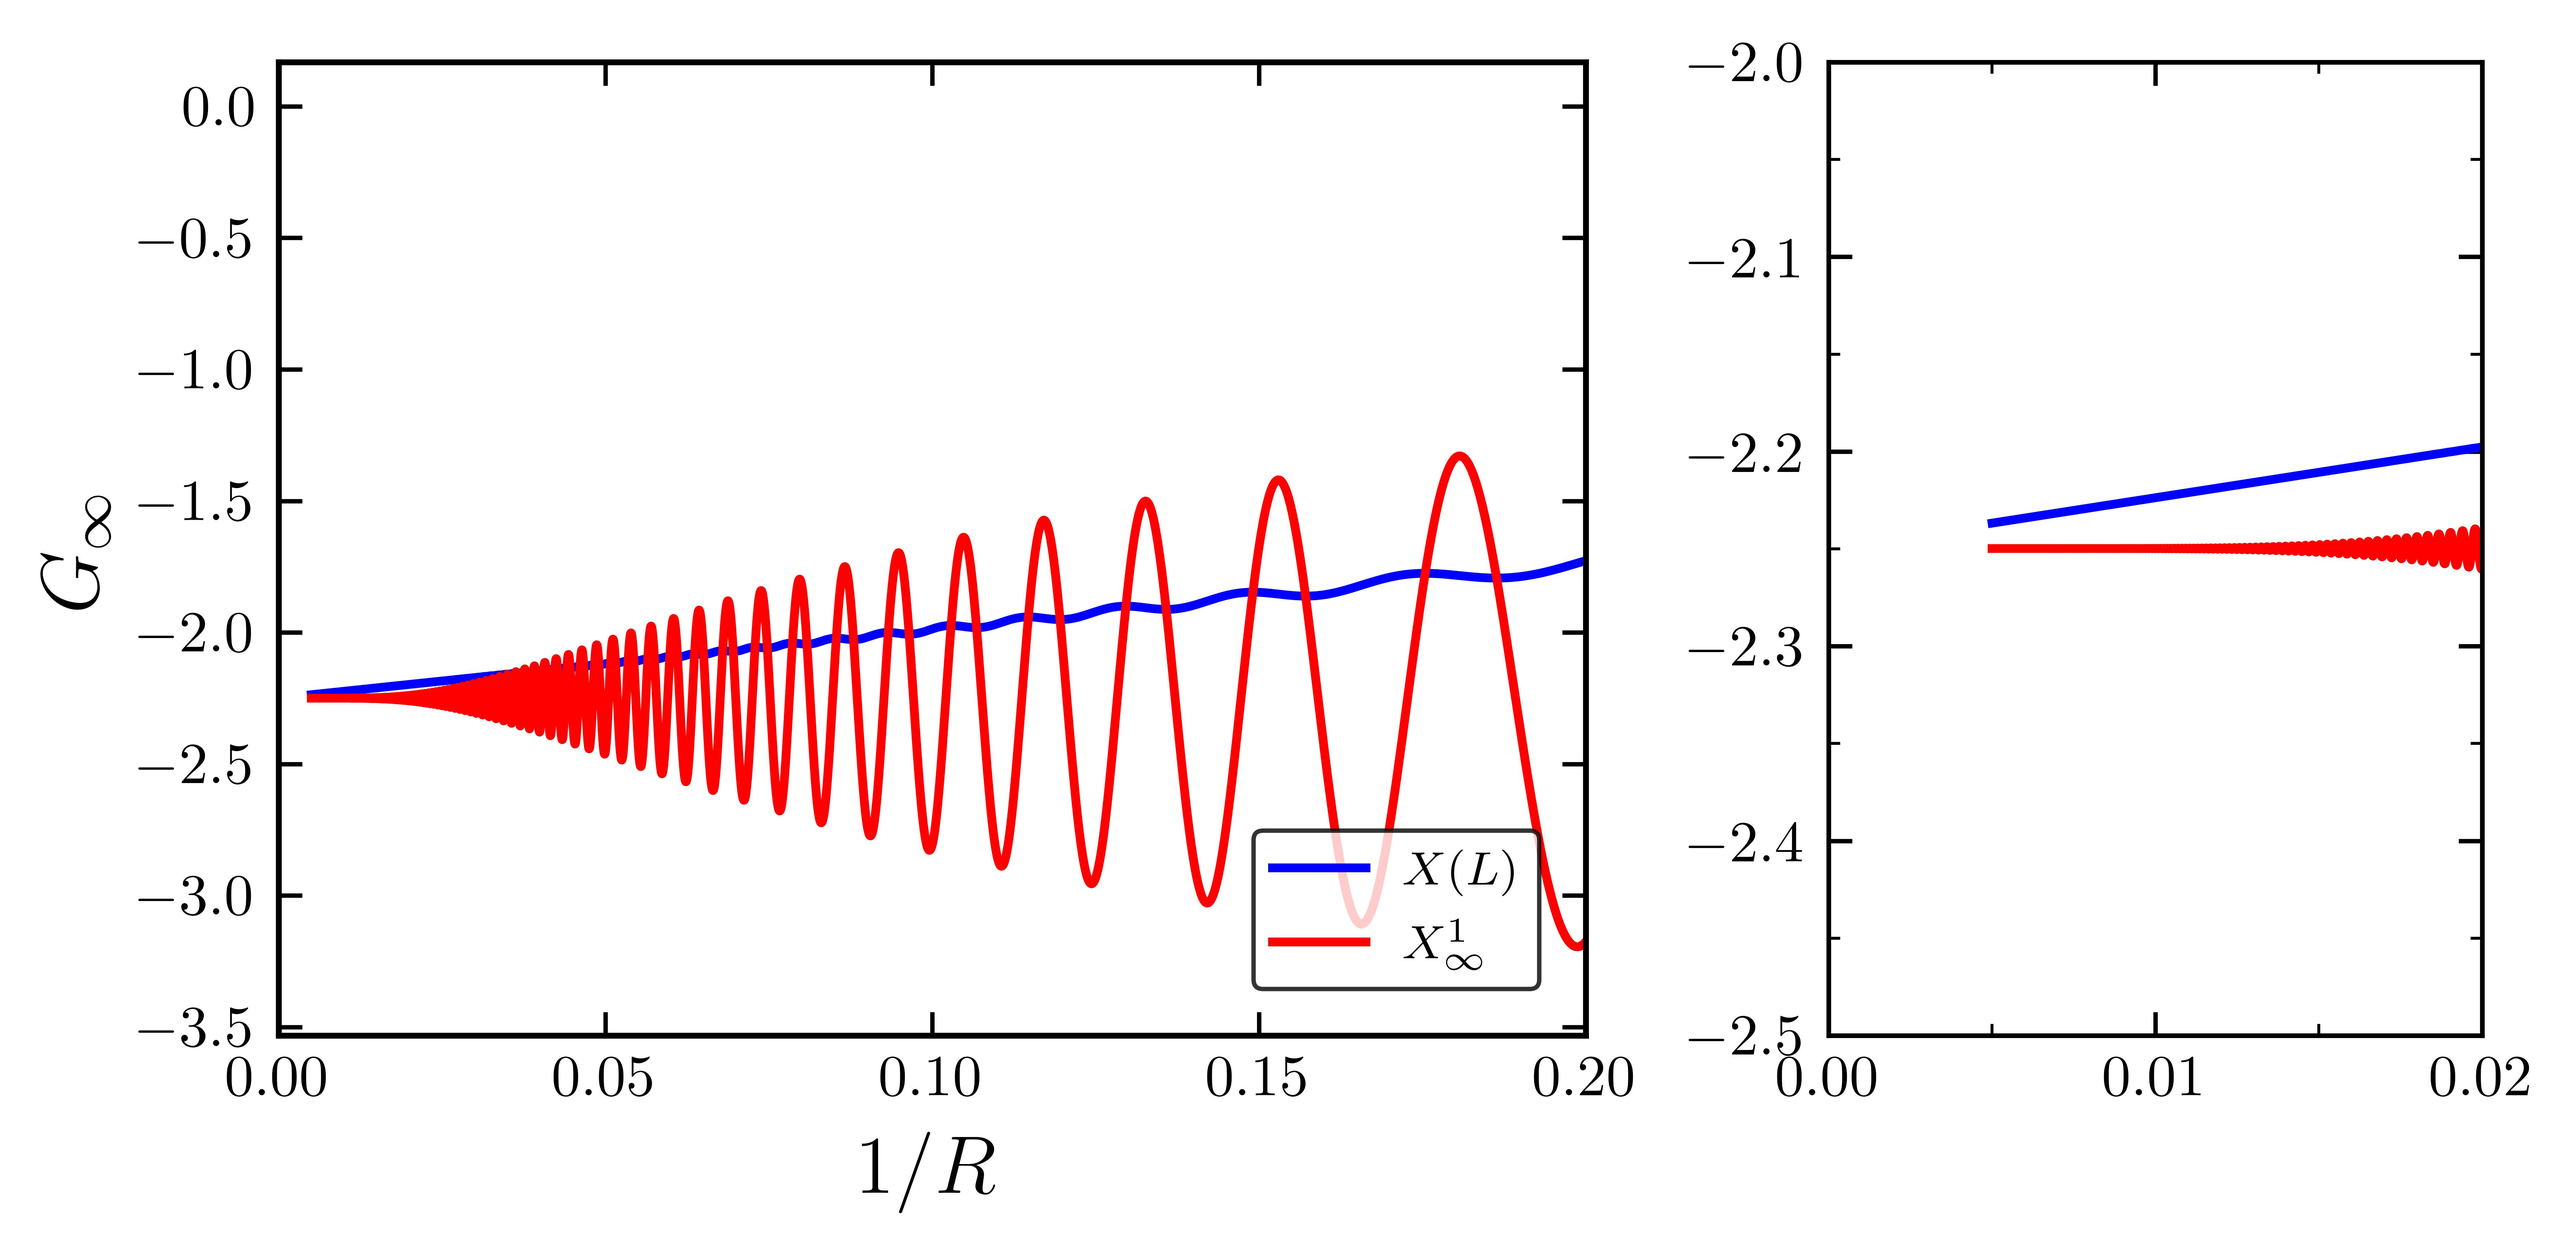
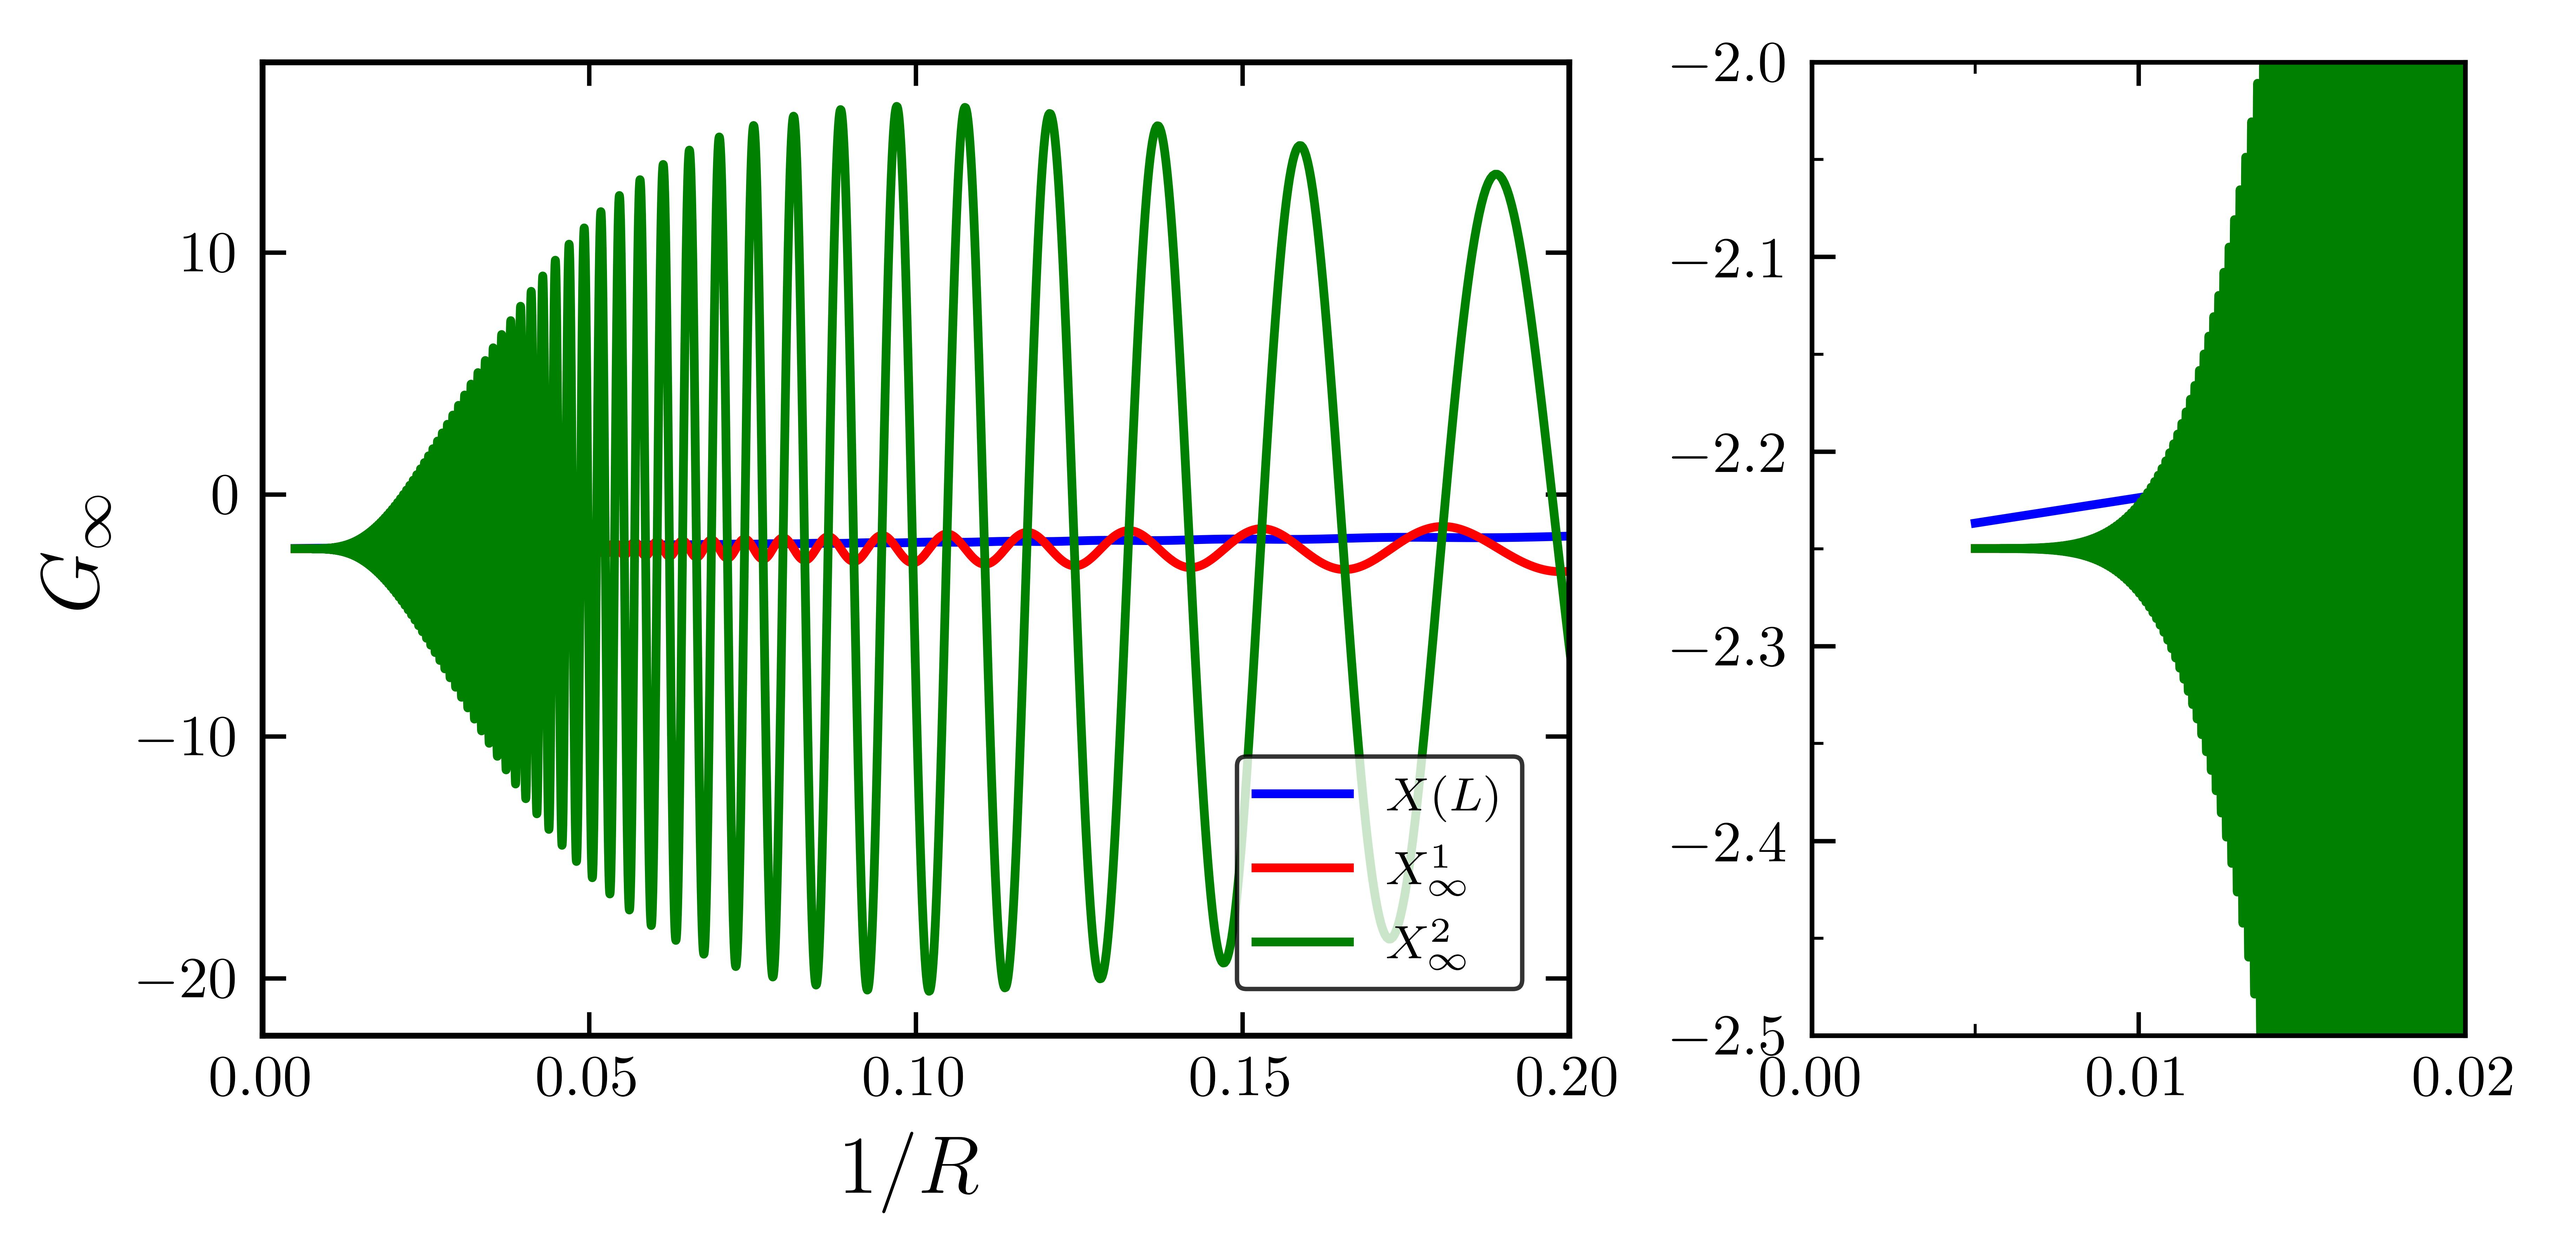
WF potential - plots

diff --git a/WF/plot_WF_lambda.py b/WF/plot_WF_lambda.py
@@ -1,0 +1,123 @@
+#!/usr/bin/env python
+
+########################### import the packages ############################
+import os
+import numpy as np
+import scienceplots
+import matplotlib
+matplotlib.use('Agg')
+import matplotlib.pyplot as plt
+import matplotlib.colors as mcolors
+from matplotlib.ticker import ScalarFormatter, MultipleLocator
+import matplotlib.cm as cm
+
+markers = ['o', 's', '^', 'D', 'h', '*', 'X' , "8"]
+plot_size = (4, 3)
+graphic_font = 'Arial'
+math_font = 'dejavuserif'  #['dejavusans', 'dejavuserif', 'cm', 'stix', 'stixsans', 'custom']
+spine_width = 1
+markersize=2
+capsize=3
+markeredgewidth=0.75
+legend_linewidth = 1
+linewidth =1                
+tick_width=0.75
+tick_length=4
+minor_tick_width= 0.5
+minor_tick_length=2
+tick_labelsize=10
+legend_fontsize=8
+legend_boxwidth=0.75
+label_fontsize=14
+borderaxespad=0.6
+alpha = 1
+CO2_color = '#e41a1c'
+MIX_color = '#008000'
+rgba_CO2_color = mcolors.to_rgba(CO2_color)
+rgba_MIX_color = mcolors.to_rgba(MIX_color)
+CO2_face_color = (rgba_CO2_color[0], rgba_CO2_color[1], rgba_CO2_color[2], 0.6)
+MIX_face_color = (rgba_MIX_color[0], rgba_MIX_color[1], rgba_MIX_color[2], 0.6)
+resolution_value = 1200
+break_threshold = 10 # for NIST data
+plt.rcParams['font.serif'] = graphic_font
+plt.rcParams['mathtext.fontset'] = math_font
+
+def wf_potential(r, rc, alpha, Lambda):
+    f1 = r**2 + alpha * (1 - Lambda)
+    f2 = (1 / f1) - 1
+    f3 = rc**2 + alpha * (1 - Lambda)
+    f4 = ((f3 / f1) - 1)**2
+    return Lambda * f2 * f4
+
+epsilon = 1.0
+sigma = 1.0
+rc = 2
+alpha = 1
+Lambda = np.arange(0,1.001,0.01)
+
+cmap = cm.get_cmap("viridis")
+norm = mcolors.Normalize(vmin=min(Lambda), vmax=max(Lambda))  #
+
+with plt.style.context([ 'ieee']):
+    plt.rcParams['font.family'] = graphic_font
+    plt.rcParams['mathtext.fontset'] = math_font
+    plt.rcParams['text.usetex'] = True
+    fig, ax = plt.subplots(figsize=plot_size)
+    ax.spines['top'].set_linewidth(spine_width)    
+    ax.spines['bottom'].set_linewidth(spine_width) 
+    ax.spines['left'].set_linewidth(spine_width)   
+    ax.spines['right'].set_linewidth(spine_width) 
+
+    for i, lambda_val in enumerate(Lambda):
+        
+        r = np.linspace(0, 2, 5000)
+        V_WF = wf_potential(r, rc, alpha, lambda_val)
+        if np.any(np.abs(V_WF) > 1e17):  # Set a reasonable threshold
+            print(f"Large values detected for lambda={lambda_val}")
+        color = cmap(norm(lambda_val))
+        
+        plt.plot(r, V_WF, label=rf"{i}", color= color, linestyle='solid', linewidth=linewidth)
+        plt.axhline(0, color='black',linewidth=0.5)
+        # plt.axvline(2.0 * sigma, color='red', linestyle='--', label="Rcut")
+        
+        if i % 20 == 0:  # Adjust as per the Lambda resolution
+            midpoint_idx = len(r) // (2)
+            ax.plot(r, V_WF, color='k',  linestyle='solid', linewidth=1)
+            ax.text(r[midpoint_idx], V_WF[midpoint_idx] + 0.05, f"{lambda_val:.1f}", fontsize=legend_fontsize, color=color, ha='right',
+                bbox=dict(facecolor='white', edgecolor='none', pad=0.5, alpha=0.0))
+        
+    plt.xlabel("$r$", fontsize=label_fontsize)
+    plt.ylabel("$U_{\mathrm{WF}}(r)$", fontsize=label_fontsize)
+    
+    plt.xlim(0,2)
+    plt.ylim(-1.1, 1.1)
+    
+    # Add a color bar
+    sm = plt.cm.ScalarMappable(cmap=cmap, norm=norm)
+    sm.set_array([])  # Dummy array for ScalarMappable
+    cbar = plt.colorbar(sm, ax=ax, orientation='vertical', pad=0.08)
+    cbar.set_label(r"$\lambda$", labelpad=-40, fontsize=label_fontsize)  # Label for color bar
+    cbar.ax.tick_params(labelsize=tick_labelsize) 
+    
+    ax.tick_params(axis='both', which='major', direction='in', width=tick_width, length=tick_length, labelsize=tick_labelsize,
+            bottom=True, top=True, left=True, right=True)
+    ax.tick_params(axis='both', which='minor', direction='in', width=minor_tick_width, length=minor_tick_length,
+                bottom=True, top=True, left=True, right=True)
+    
+    ax.xaxis.set_major_locator(MultipleLocator(0.5))
+    ax.xaxis.set_minor_locator(MultipleLocator(0.25))
+    ax.yaxis.set_major_locator(MultipleLocator(0.5))
+    ax.yaxis.set_minor_locator(MultipleLocator(0.25))
+    
+    # combined_legend = plt.legend(fontsize=legend_fontsize, loc=1, ncol=1,borderaxespad=1)
+    # #outline1 = combined_legend.get_frame().set_alpha(0)
+    # outline = combined_legend.get_frame()
+    # outline.set_linewidth(legend_boxwidth)
+    # outline.set_edgecolor('black')
+    # # plt.grid(True)
+    
+    output_dir = os.getcwd()
+    file_name = f"WF_lambda.jpg"
+    file_path = os.path.join(output_dir, file_name)
+    fig.savefig(file_path, dpi=resolution_value, bbox_inches='tight')
+    fig.savefig(fr"{file_name}", dpi=resolution_value, bbox_inches='tight')

diff --git a/WF/plot_WF_alpha.py b/WF/plot_WF_alpha.py
@@ -1,0 +1,115 @@
+#!/usr/bin/env python
+
+########################### import the packages ############################
+import os
+import numpy as np
+import scienceplots
+import matplotlib
+matplotlib.use('Agg')
+import matplotlib.pyplot as plt
+import matplotlib.colors as mcolors
+from matplotlib.ticker import ScalarFormatter, MultipleLocator
+import matplotlib.cm as cm
+
+markers = ['o', 's', '^', 'D', 'h', '*', 'X' , "8"]
+plot_size = (4, 3)
+graphic_font = 'Arial'
+math_font = 'dejavuserif'  #['dejavusans', 'dejavuserif', 'cm', 'stix', 'stixsans', 'custom']
+spine_width = 1
+markersize=2
+capsize=3
+markeredgewidth=0.75
+legend_linewidth = 1
+linewidth =1                
+tick_width=0.75
+tick_length=4
+minor_tick_width= 0.5
+minor_tick_length=2
+tick_labelsize=10
+legend_fontsize=8
+legend_boxwidth=0.75
+label_fontsize=14
+borderaxespad=0.6
+alpha = 1
+CO2_color = '#e41a1c'
+MIX_color = '#008000'
+rgba_CO2_color = mcolors.to_rgba(CO2_color)
+rgba_MIX_color = mcolors.to_rgba(MIX_color)
+CO2_face_color = (rgba_CO2_color[0], rgba_CO2_color[1], rgba_CO2_color[2], 0.6)
+MIX_face_color = (rgba_MIX_color[0], rgba_MIX_color[1], rgba_MIX_color[2], 0.6)
+resolution_value = 1200
+break_threshold = 10 # for NIST data
+plt.rcParams['font.serif'] = graphic_font
+plt.rcParams['mathtext.fontset'] = math_font
+
+def wf_potential(r, rc, alpha, Lambda):
+    f1 = r**2 + alpha * (1 - Lambda)
+    f2 = (1 / f1) - 1
+    f3 = rc**2 + alpha * (1 - Lambda)
+    f4 = ((f3 / f1) - 1)**2
+    return Lambda * f2 * f4
+
+epsilon = 1.0
+sigma = 1.0
+rc = 2
+alpha = np.arange(0,1.01,0.01)
+Lambda = 0.5
+
+cmap = cm.get_cmap("viridis")
+norm = mcolors.Normalize(vmin=min(alpha), vmax=max(alpha))  #
+
+with plt.style.context([ 'ieee']):
+    plt.rcParams['font.family'] = graphic_font
+    plt.rcParams['mathtext.fontset'] = math_font
+    plt.rcParams['text.usetex'] = True
+    fig, ax = plt.subplots(figsize=plot_size)
+    ax.spines['top'].set_linewidth(spine_width)    
+    ax.spines['bottom'].set_linewidth(spine_width) 
+    ax.spines['left'].set_linewidth(spine_width)   
+    ax.spines['right'].set_linewidth(spine_width) 
+
+    for i, alpha_val in enumerate(alpha):
+        
+        r = np.linspace(0, 2, 5000)
+        V_WF = wf_potential(r, rc, alpha_val, Lambda)
+        color = cmap(norm(alpha_val))
+        
+        plt.plot(r, V_WF, label=rf"{i}", color= color, linestyle='solid', linewidth=linewidth)
+        plt.axhline(0, color='black',linewidth=0.5)
+        # plt.axvline(2.0 * sigma, color='red', linestyle='--', label="Rcut")
+        
+    plt.xlabel("$r$", fontsize=label_fontsize)
+    plt.ylabel("$U_{\mathrm{WF}}(r)$", fontsize=label_fontsize)
+    
+    plt.xlim(0.45,2)
+    plt.ylim(-1.1, 1.1)
+    
+    # Add a color bar
+    sm = plt.cm.ScalarMappable(cmap=cmap, norm=norm)
+    sm.set_array([])  # Dummy array for ScalarMappable
+    cbar = plt.colorbar(sm, ax=ax, orientation='vertical', pad=0.08)
+    cbar.set_label(r"$\alpha$", labelpad=-40, fontsize=label_fontsize)  # Label for color bar
+    cbar.ax.tick_params(labelsize=tick_labelsize) 
+    
+    ax.tick_params(axis='both', which='major', direction='in', width=tick_width, length=tick_length, labelsize=tick_labelsize,
+            bottom=True, top=True, left=True, right=True)
+    ax.tick_params(axis='both', which='minor', direction='in', width=minor_tick_width, length=minor_tick_length,
+                bottom=True, top=True, left=True, right=True)
+    
+    ax.xaxis.set_major_locator(MultipleLocator(0.5))
+    ax.xaxis.set_minor_locator(MultipleLocator(0.25))
+    ax.yaxis.set_major_locator(MultipleLocator(0.5))
+    ax.yaxis.set_minor_locator(MultipleLocator(0.25))
+    
+    # combined_legend = plt.legend(fontsize=legend_fontsize, loc=1, ncol=1,borderaxespad=1)
+    # #outline1 = combined_legend.get_frame().set_alpha(0)
+    # outline = combined_legend.get_frame()
+    # outline.set_linewidth(legend_boxwidth)
+    # outline.set_edgecolor('black')
+    # # plt.grid(True)
+    
+    output_dir = os.getcwd()
+    file_name = f"WF_alpha.jpg"
+    file_path = os.path.join(output_dir, file_name)
+    fig.savefig(file_path, dpi=resolution_value, bbox_inches='tight')
+    fig.savefig(fr"{file_name}", dpi=resolution_value, bbox_inches='tight')

diff --git a/GRintegrate-derivatives/plot_gr.py b/GRintegrate-derivatives/plot_gr.py
@@ -57,10 +57,10 @@ def plot_ggr(gr):
                     color='r',
                     label='$X^{1}_{\infty}$')
     
-    # gr_2 = plt.plot(gr[0:,0], gr[0:,3],
-    #                 linestyle= 'solid',
-    #                 color='g',
-    #                 label='$X^{2}_{\infty}$')
+    gr_2 = plt.plot(gr[0:,0], gr[0:,3],
+                    linestyle= 'solid',
+                    color='g',
+                    label='$X^{2}_{\infty}$')
     
     # gr_3 = plt.plot(gr[0:,0], gr[0:,4],
     #                 linestyle= 'solid',
